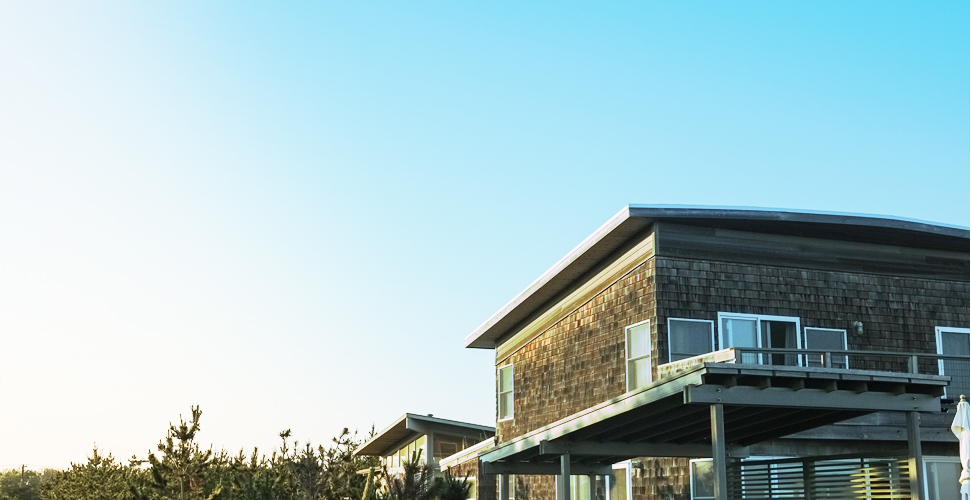
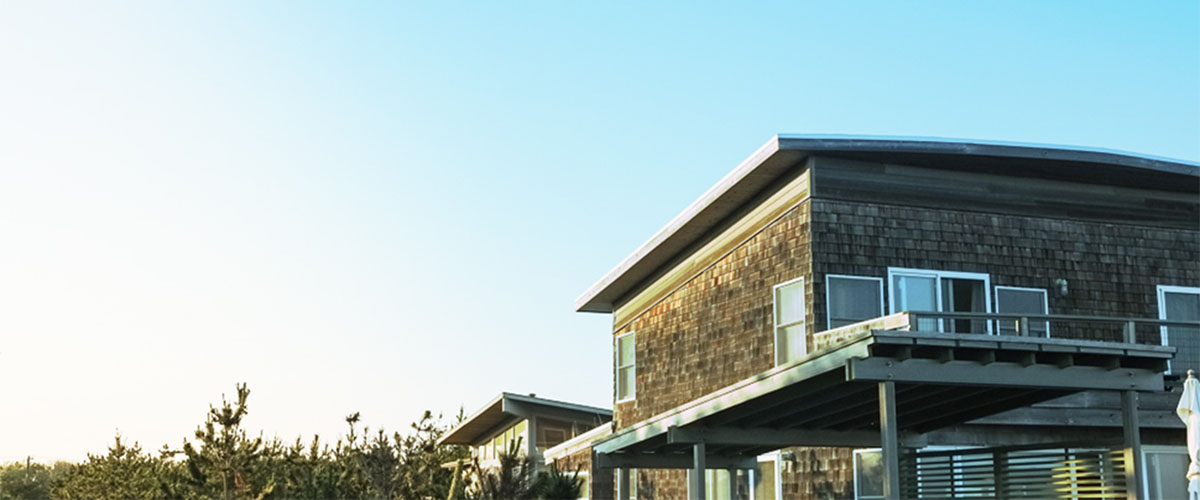
Слайдер

diff --git a/css/main.css b/css/main.css
@@ -155,14 +155,14 @@ body {font: normal 18px "nerislight"; color: #000; position: relative; min-heigh
 .slider-main {overflow: hidden; margin: 0 0 37px;}
     .slider-main a {outline: none;}
     .slider-main .slick-list {overflow: inherit;}
-    .slider {position: relative; width: 1200px; margin: 0 auto;}
-        .slider-item {float: left; width: 1170px; height: 500px; position: relative; margin: 0 15px;}
-            .slider-item:before {position: absolute; top: 0; left: 0; bottom: 0; width: 200px; background: #fff; content: ' '; z-index: 2;}
+    .slider {position: relative; width: 1170px; margin: 0 auto;}
+        .slider-item {float: left; width: 1170px; height: 500px; position: relative; margin: 0;}
+            /*.slider-item:before {position: absolute; top: 0; left: -30px; bottom: 0; width: 200px; background: #fff; content: ' '; z-index: 2;}*/
             .sl-img {position: absolute; top: 0; right: 0; z-index: 1;}
             .slider-h {max-height: 214px; padding: 43px 0 12px; overflow: hidden; font: 60px/1.2em 'nerisblack'; margin: 0 0 32px; position: relative; z-index: 2;}
                 .slider-h a {border-bottom: 4px solid #00a1df;}
                 .slider-h a:hover {border-color: transparent;}
-            .slider-h2 {float: left; width: 197px; padding: 12px 100px 0 0; font-size: 18px; line-height: 26px; position: relative; z-index: 2;}
+            .slider-h2 {float: left; width: 200px; height: 200px; padding: 300px 0 0 30px; top: 0; left: -30px; font-size: 18px; line-height: 26px; position: absolute; z-index: 1; background: #fff;}
             .slider-date {width: 300px; position: absolute; z-index: 2; margin-top: -11px; left: 297px; top: 300px; padding-right: }
                 .sl-date-item {float: left; position: relative; height: 117px; color: #00a1df; font: 60px/70px 'nerisblack';}
                     .sl-date-item span {position: absolute;  top: 70px; left: 50%; margin-left: -50px; width: 100px; font: normal 18px "nerislight"; text-align: center;}
@@ -573,6 +573,8 @@ input[type='radio']:checked + label:before {background-position: 100% 0;}
 .slick-slide .slider-h2, .slick-slide .slider-date {opacity: 0;}
 .slick-active .slider-h {display: block;}
 .slick-active .slider-h2, .slick-active .slider-date {opacity: 1;}
+.slider-item:before {opacity: 0;}
+.slick-active.slider-item:before {opacity: 1;}
 .head-inner .slider-item:before {display: none;}
 
 .head-mob .delivery-form {padding-top: 20px; margin-right: -15px;}
